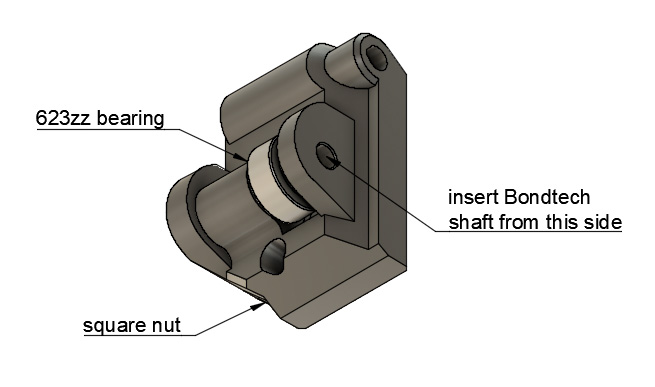
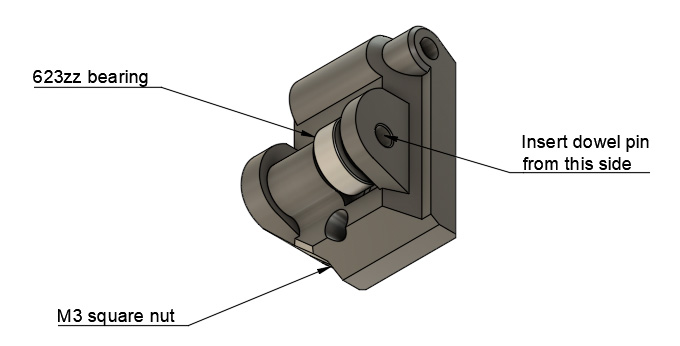
replace bondtech shaft by dowel pin

diff --git a/optional_parts/extruder_idler_bearing/README.md b/optional_parts/extruder_idler_bearing/README.md
@@ -4,7 +4,9 @@
 
 ### Introduction
 
-This optional extruder idler replaces the Bondtech "idler" gear by a 623zz bearing to eliminate gear meshing issue
+When filament is running between Bondtech gears, the gearwheel are touching at the very ends of their teeth. This might introduce a non smooth rotation of the Bondtech "idler" gear and might result in inconsistent extrusion.
+
+This optional extruder idler replaces the Bondtech "idler" gear by a 623zz bearing to eliminate this issue.
 
 ### Bill of Materials
 
@@ -13,6 +15,7 @@ This optional extruder idler replaces the Bondtech "idler" gear by a 623zz beari
 | Bear extruder | 1 | |
 | 623zz Bearing | 1 | I.D.: 3mm, O.D.: 10mm, width: 4mm |
 | Bondtech shaft | 1 | |
+| Dowel pin<br/>diameter: 3mm, length: 14mm to 20mm | 1 | Need to fit the 623zz bearing.<br/>Cut a M3 screw if you cannot find it | [McMaster-Carr](https://www.mcmaster.com/#93600a364/=1dbmkt6) |
 
 
 ### Printed Parts
